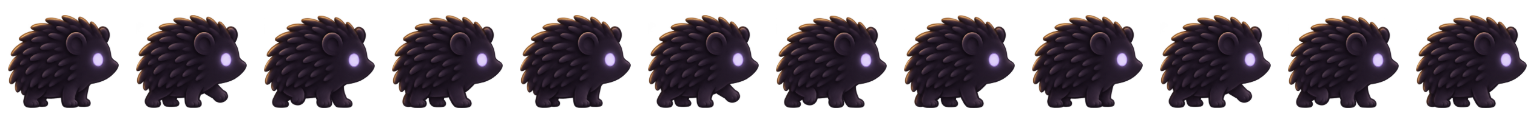
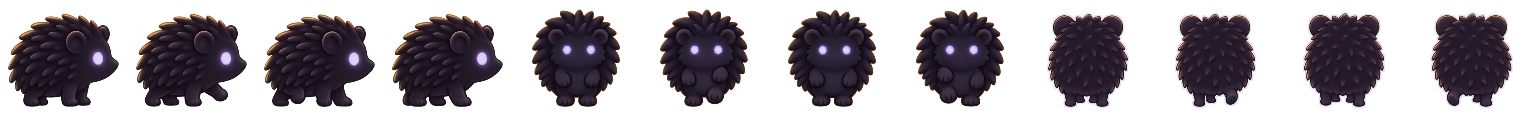
주민 앞·뒤 연결: 고슴도치·레서판다 앞·뒤 32장(기획 세션 13:14 통과) → 시트 칸 4~11, 개구리 앞·뒤는 f01 수정본까지 옆으로 대신
- art-src/enemies/<id>-dark|true.walk_000_front_f01~04 · walk_180_back_f01~04, 판에서 위에서 내려오면 앞모습·아래에서 올라가면 뒷모습 확인, 콘솔 오류 0
- npm run assets가 손대지 않은 그림 70여 개도 픽셀이 조금 다르게 구움(크롬 업데이트로 줄이기 방식 변화로 보임, 화질 같거나 조금 또렷) → 그 파일들은 되돌리고 이번 시트 넷과 manifest만
- 점검 기록 reference/Lost_Pack/README_claude.md, CLAUDE.md·NIGHT_RUN 14-4·스킬 visual-audio·DECISION_LOG

Claude-Session: https://claude.ai/code/session_01HrPbr5mJU6i3pPUacduwos

diff --git a/CLAUDE.md b/CLAUDE.md
@@ -91,7 +91,7 @@
 - **테스트**(홈): 고르기 창 = 트라이얼(루미·토리·도토 칸, 잠긴 친구도 — 그 판에서만) + 튜토리얼 + '밤 n 체험'(1·3·6·9, 맵 고르기). 테스트 판은 진행·지난 밤들에 남지 않는다.
 - **HUD**: 위 = 달·"밤 {n} · mm:ss"·진행 바·점수(런 누적)·콤보·★레벨·✦별가루. 아래 = 하트·HP·LP('HP'·'LP' 글자)·광원 HP·켠 등불 수·일시정지. 17:9보다 좁은 가로는 판을 바닥 가운데·스틱을 위로, 폰 가로는 스틱을 안쪽으로. 화면 밖 적 = 라벤더 화살표, 꺼진 등불·위험·빛을 잃은 친구 = 노란 화살표.
 - **아트**: "어두운 밤, 따뜻한 빛" — 남색 + 호박빛, 작은 동물들의 밤 마을(어두운 겹·켜진 겹을 빛 마스크로). 공간감 기준 「달빛 숲의 등불지기 고양이」(`reference/ChatGPT-Images/`). 분위기 참고 Stray·OneShot, Cult of the Lamb 2.5D, Undertale 자비, 브롤스타즈 조작·맵.
-- **그림 규칙**: 실제 그림 = ChatGPT, 그때까지 Claude 임시 코드 그림(`src/art/*` → `npm run assets`), ChatGPT 그림이 오면 같은 키로 교체. **받은 것(2026-11-24 ChatGPT, 각 팩 `README_claude.md`)**: 행렬 패시브 셋 — 올빼미(걷기 옆·앞·뒤 각 4, 6칸/초) · 나방·반딧불이(나는 종: 날갯짓 옆 4, 8칸/초, 몸 가운데 앵커), 웅크림 = 정면 한 장 전 방향 공용·뒤집지 않음, 도망 = 옆 2장 가로 부호로 뒤집기(올빼미·반딧불이 8 · 나방 6칸/초) — `art-src/enemies/<id>.*`·`<id>-cower`·`<id>-flee` · 노월 두 모습(`witch`·`witch-angry` 0~3 대기·4~5 시전·6 진정 공용, 진정 순간 부활 빛기둥 한 번) · UI 아이콘 v3(`public/ui-icons/`, `src/ui/v3Icons.ts` — HUD ✦·★ 선, 아침 요약·상점은 산 것만 채움 `-on`, 두 길 점은 선만) · 2-B 아침 배경(세로·가로, cover — '집으로' 결과도 같은 하늘)·새 지역 카드 B·C·이야기 카드 2·4(`art-src/backgrounds/`) · 2-C 호스틸 셋 — 박쥐(두 모습 — 돌아갈 때 `bat-true`로 제자리 교체, 몸을 돌리지 않고 가로로만 뒤집음)·웨어울프(앞·뒤 ±2px 출렁임)·뱀파이어(칸 96, 받은 그림의 몸 자리를 Claude가 눈 기준으로 옮긴 사본) · 중앙 광원(밝음·낮음·꺼짐 = 칸 0·1·2) · 등불 스테이션(켜짐·약함·꺼짐, 바닥 = 기준점) · 스폰 아이템 아이콘 5종(바닥·HUD·선택 화면 같은 그림) · 잃어버린 주민 셋 옆모습 두 모습(개구리·고슴도치·레서판다 — 앞·뒤는 옆 4장으로 대신, 2차가 통과하면 교체) — 2-C 팩은 `ArtSpec.register: 'canvas'`(캔버스 앵커 그대로). 홍보 키 비주얼 `reference/Key_Visual_v3/`는 게임에 넣지 않음. 아직 임시(코드 그림 = 폴백, 오는 대로 교체): 주민 셋 앞·뒤(자리 대조표 `NIGHT_RUN.md` 14-4)·격자 소품·바닥·이야기 카드 1·3·5·6. 연결 지시는 `docs/plan/order-art-connect-26-1124.md`에 쌓임. **쓰러짐 = 잠듦**(2026-11-24): X 눈 칸 쓰지 않음, 잠든 모습 = ChatGPT `reference/Sleep_Pack/`(11-24 도착, `src/art/sleepSheet.ts`가 8방향 시트와 같은 축척으로 — 루미·도토는 쓰러진 방향대로 뒤집기, 토리는 안 뒤집음, 그림이 없으면 대기 그림을 눕혀 흐리게), **'z' 같은 글자는 띄우지 않는다**(라이언). 그림 마감 없음(8절 마감 지침). v3 브리프 이름 ↔ 게임 자리 = `NIGHT_RUN.md` 13절 끝.
+- **그림 규칙**: 실제 그림 = ChatGPT, 그때까지 Claude 임시 코드 그림(`src/art/*` → `npm run assets`), ChatGPT 그림이 오면 같은 키로 교체. **받은 것(2026-11-24 ChatGPT, 각 팩 `README_claude.md`)**: 행렬 패시브 셋 — 올빼미(걷기 옆·앞·뒤 각 4, 6칸/초) · 나방·반딧불이(나는 종: 날갯짓 옆 4, 8칸/초, 몸 가운데 앵커), 웅크림 = 정면 한 장 전 방향 공용·뒤집지 않음, 도망 = 옆 2장 가로 부호로 뒤집기(올빼미·반딧불이 8 · 나방 6칸/초) — `art-src/enemies/<id>.*`·`<id>-cower`·`<id>-flee` · 노월 두 모습(`witch`·`witch-angry` 0~3 대기·4~5 시전·6 진정 공용, 진정 순간 부활 빛기둥 한 번) · UI 아이콘 v3(`public/ui-icons/`, `src/ui/v3Icons.ts` — HUD ✦·★ 선, 아침 요약·상점은 산 것만 채움 `-on`, 두 길 점은 선만) · 2-B 아침 배경(세로·가로, cover — '집으로' 결과도 같은 하늘)·새 지역 카드 B·C·이야기 카드 2·4(`art-src/backgrounds/`) · 2-C 호스틸 셋 — 박쥐(두 모습 — 돌아갈 때 `bat-true`로 제자리 교체, 몸을 돌리지 않고 가로로만 뒤집음)·웨어울프(앞·뒤 ±2px 출렁임)·뱀파이어(칸 96, 받은 그림의 몸 자리를 Claude가 눈 기준으로 옮긴 사본) · 중앙 광원(밝음·낮음·꺼짐 = 칸 0·1·2) · 등불 스테이션(켜짐·약함·꺼짐, 바닥 = 기준점) · 스폰 아이템 아이콘 5종(바닥·HUD·선택 화면 같은 그림) · 잃어버린 주민 셋 두 모습(옆 셋 · 앞·뒤는 고슴도치·레서판다 — 개구리 앞·뒤는 f01 수정본까지 옆으로 대신) — 2-C 팩은 `ArtSpec.register: 'canvas'`(캔버스 앵커 그대로). 홍보 키 비주얼 `reference/Key_Visual_v3/`는 게임에 넣지 않음. 아직 임시(코드 그림 = 폴백, 오는 대로 교체): 개구리 앞·뒤(f01 수정본 대기)·격자 소품·바닥(연결 중)·강·다리(수정본 대기)·이야기 카드 1·3·5·6. 연결 지시는 `docs/plan/order-art-connect-26-1124.md`에 쌓임. **쓰러짐 = 잠듦**(2026-11-24): X 눈 칸 쓰지 않음, 잠든 모습 = ChatGPT `reference/Sleep_Pack/`(11-24 도착, `src/art/sleepSheet.ts`가 8방향 시트와 같은 축척으로 — 루미·도토는 쓰러진 방향대로 뒤집기, 토리는 안 뒤집음, 그림이 없으면 대기 그림을 눕혀 흐리게), **'z' 같은 글자는 띄우지 않는다**(라이언). 그림 마감 없음(8절 마감 지침). v3 브리프 이름 ↔ 게임 자리 = `NIGHT_RUN.md` 13절 끝.
 - **둥근 버튼·배지 규칙**: 남색 유리 원(#34396C → #14152E) + 얇은 밝은 테두리 + 굵고 끝이 둥근 선 아이콘(연한 종이색), 켜짐 = 호박 사탕 채움 + 남색 아이콘, 놓으면 부드럽게 제자리(cubic-bezier(0.16, 1, 0.3, 1)). 기준 `.pull-refresh`·`refreshIcon`·`.icon-button`. 알약 버튼(주요 = 호박, 보조 = 어두운 유리), 최소 48px.
 - **팔레트**: NIGHT `#1B1F3B` · DUSK `#2A2F5A` · PREDAWN `#120F24` · DAWN `#F2B880` · AMBER `#FFC857` · MINT `#9ED9B5` · LAVENDER `#A89CD9` · EMBER `#FF8C5A` · PAPER `#F6F1E7` · ASH `#8A8FA8`. 폰트 Pretendard → Noto Sans KR.
 - **늘 어두운 화면**: `color-scheme: only dark`(+ index.html meta) — 브라우저·기기 야간 모드가 색을 바꾸지 않게(2026-11-20). **설정 창**: 낮은 가로(휴대폰)는 위 한 줄에 제목·닫기, 아래는 PC처럼 두 칸(넘치면 위아래로, 글자 px 최소값 16 — 폭 640 아래는 한 칸). 모든 화면에서 배경음악·효과음 슬라이더 왼쪽 끝을 맞추고(글자 칸 5em), 닉네임 칸·버튼은 칸 폭을 넘지 않는다(2026-11-21).

diff --git a/docs/skill/light-defense-game/references/visual-audio.md b/docs/skill/light-defense-game/references/visual-audio.md
@@ -93,7 +93,7 @@
   - 노월은 대기·시전·진정 모습이 있다.
 - 퇴장: 잃어버린 주민은 제 모습으로 중앙 광원 쪽으로 뛰어가며 사라진다. 호스틸은 빛 반대쪽으로 날아가 사라진다.
 - 패시브는 위협적이지 않게, 빛을 피하는 몸짓을 한다.
-- 아직 Claude의 임시 코드 그림(2026-11-24 주민 옆모습 연결 뒤): 주민 셋 앞·뒤(지금은 옆 4장으로 대신)·격자 맵 소품·바닥, 이야기 카드 1·3·5·6(초상·도형 구성).
+- 아직 Claude의 임시 코드 그림(2026-11-24 주민 앞·뒤 연결 뒤): 개구리 앞·뒤(옆 4장으로 대신 — f01 수정본 대기)·격자 맵 소품·바닥(연결 중)·강·다리, 이야기 카드 1·3·5·6(초상·도형 구성). 고슴도치·레서판다는 옆·앞·뒤 모두 ChatGPT 그림.
 - 잃어버린 주민 셋(개구리·고슴도치·레서판다) 옆모습 두 모습은 2026-11-24 ChatGPT 그림(`reference/Lost_Pack/`) — 캔버스 앵커 그대로(개구리 공중 칸이 땅에 붙지 않게), 제 모습은 빛을 잃은 모습 축척(구출 순간 제자리 교체). 코드 그림은 폴백으로 남긴다(그림 일괄 지시서 — 그림 마감 없음, 오는 대로 교체).
 - ChatGPT 그림 적용(2026-11-24 그림 연결, 각 팩 `README_claude.md`): 웨어울프(옆·앞·뒤 걷기 각 4, 8칸/초, 앞·뒤 걷는 동안 ±2px 출렁임) · 박쥐 두 모습(날갯짓 옆 4, 몸 가운데 앵커, 빛을 받아 돌아갈 때 되돌아온 모습으로 제자리 교체) · 중앙 광원(밝음·낮음·꺼짐 3칸, 광도 4단계는 둘레 빛 크기) · 뱀파이어(날갯짓 옆 4, 칸 96, 받은 그림의 몸 자리를 눈 기준으로 옮긴 사본) · 등불 스테이션(켜짐·약함·꺼짐, 바닥 = 기준점) · 스폰 아이템 아이콘 5종(남색 굵은 선 + 제 색, 바닥·HUD·선택 화면 같은 그림). 2-C 팩은 `ArtSpec.register: 'canvas'`로 캔버스 앵커를 그대로 지킨다.
 - ChatGPT 그림 적용(2026-11-24, 각 팩 `README_claude.md`): 나방·반딧불이(나는 종 — 날갯짓 옆 4장 8칸/초·몸 가운데 앵커·가로 부호로 뒤집기, 웅크림 정면 공용, 도망 2장 나방 6·반딧불이 8칸/초, 칸 64·48px) · 노월(시트 `witch`·`witch-angry` 0~3 대기·4~5 시전·6 진정 공용, 진정 순간은 말풍선 + 부활 빛기둥 한 번) · UI 아이콘 v3(`public/ui-icons/`, HUD ✦·★ 선, 아침 요약·상점은 산 것만 채움, 두 길 점 선만) · 올빼미(행렬 패시브) · 2-B 아침 배경(`morning`·`morning-wide`, cover) · 새 지역 카드(`region-border`·`region-dark`) · 이야기 카드 2·4(`story-02-source`·`story-04-voices`, 16:9 — 글 자리 그대로). 홍보 키 비주얼 `reference/Key_Visual_v3/`는 게임에 넣지 않음 — 걷기 옆·앞·뒤 각 4장(옆은 오른쪽, 왼쪽은 뒤집기) · 웅크림 정면 1장(전 방향 공용, 뒤집지 않음, 겁먹은 눈) · 도망 옆 2장(가로 부호로 뒤집기, 8칸/초). 칸 72px·몸 약 58px.

diff --git a/docs/DECISION_LOG.md b/docs/DECISION_LOG.md
@@ -209,3 +209,4 @@
 - 2026-11-24 · 13:19 마감 지침(라이언·기획 세션): 마감은 날짜가 아니라 지침 — "최대한 빨리 완성하되, 오류 없이 진행하는 것이 먼저". 날짜 마감 문장(11-26 12:00·11-26 23:00·11-27 23:00)은 이 지침으로 바꿈. 빨리 = 잘게 끊어 테스트·check를 통과한 단위로 자주 반영·보고, 통과 못 한 것은 올리지 않음.
 - 2026-11-24 · 완료 기준 F5(노월 진정 = 아침) 점검 판을 ★9로 시작(`&level=n` 개발 주소) — 다듬기 2차로 레벨이 느려져 밤 10을 ★1로 바로 시작하는 점검 판이 100초에 걸렸음(게임 규칙 문제 아님, 실제 런은 밤 10에 ★10).
 - 2026-11-24 · 13:26 기획 세션(라이언 지시, 긴급) — 이야기 카드 2↔4 순서 교정(두 목소리는 광원이 꺼지기 전): 1 마을 · 2 두 목소리 · 3 광원이 꺼진 밤 · 4 친구를 잃음 · 5·6 그대로. 그림·문구 그대로(카드 4 앞 "답을 듣지 못한 채,"는 붙이지 않음 — 카드 4가 "빛의 마을이 넓어지자"로 시작해 어색), 그림 파일 이름은 자리 번호일 뿐.
+- 2026-11-24 · 주민 앞·뒤 연결(기획 세션 13:14 통과): 고슴도치·레서판다 앞·뒤 32장 → 칸 4~11, 개구리 앞·뒤는 f01 수정본까지 옆으로 대신. `npm run assets`가 이번에 손대지 않은 그림 70여 개도 픽셀이 조금 다르게 다시 구워(크롬 업데이트로 줄이기 방식이 바뀐 듯 — 화질은 같거나 조금 또렷) 그 파일들은 되돌리고 이번 시트만 올림.

diff --git a/reference/Lost_Pack/README_claude.md b/reference/Lost_Pack/README_claude.md
@@ -16,6 +16,6 @@ ChatGPT 2-C 1-2절 → 기획 세션 통과(`docs/plan/order-art-connect-26-1124
 | `hedgehog_lost_walk_090_right_…` / `hedgehog_walk_090_right_…` | `hedgehog-dark.…` / `hedgehog-true.…` | 0~3(옆) | 64 · 발끝 |
 | `redpanda_lost_walk_090_right_…` / `redpanda_walk_090_right_…` | `redpanda-dark.…` / `redpanda-true.…` | 0~3(옆) | 72 · 발끝 |
 
-- **앞·뒤 칸(4~11)은 옆 4장으로 대신**(`ArtSpec.poseFallback`, 뒤집기 없음) — 앞·뒤 2차(통합 지시서 9번)가 기획 검토를 통과하면 같은 자리 이름(`walk_000_front_f0N`·`walk_180_back_f0N`)으로 넣는다.
+- **앞·뒤**(2026-11-24 기획 세션 13:14 통과): 고슴도치·레서판다 앞·뒤 32장 → `art-src/enemies/<id>-dark|true.walk_000_front_f01~04`·`walk_180_back_f01~04` → 칸 4~7·8~11(발끝 494~495, 가운데 254~258). **개구리 앞·뒤는 옆 4장으로 대신**(`poseFallback`) — f01 네 장(떨어진 조각, 발 427·441)의 ChatGPT 수정본이 오면 f01~f04를 함께 넣는다(한 방향의 네 장이 다 있어야 그 방향 그림을 씀). 캡처 `sketches/lost-precheck-26-1124-1048/frontback-front.png`·`frontback-back.png`.
 - **캔버스 앵커 그대로**(`register: 'canvas'`): 개구리는 이것이 없으면 공중 칸(f03)이 땅에 붙어 폴짝이 사라진다. 제 모습은 빛을 잃은 모습 축척을 빌림(구출 순간 제자리 교체).
 - 받은 팩 파일은 손대지 않음. 코드 그림(`src/art/enemies.ts`·`creatures.ts`)은 폴백.

diff --git a/reference/Lost_Pack/redpanda/README.md b/reference/Lost_Pack/redpanda/README.md
@@ -8,3 +8,6 @@ Twenty-four transparent 512×512 sprites: 12 true-form and 12 lost-form, coverin
 - Lost form: matching dark plum (#1F1B2E) with lavender #D6CCFF eyes edged #A89CD9 in front and side views, no sclera, mouth, nose, or blush. Rear faces away and has no eyes.
 - Lost rear-view frames are color-mapped from their matching true-form frames to preserve the exact single-tail silhouette and position.
 - No text, clothes, props, or ground shadow.
+
+### 2026-11-24 correction
+- Added a restrained #A89CD9 outer rim to all four lost-form rear frames; silhouettes and poses were preserved.

diff --git a/reference/Lost_Pack/frog/README.md b/reference/Lost_Pack/frog/README.md
@@ -18,3 +18,7 @@ Files:
 - frog_lost_walk_000_front_f01.png through frog_lost_walk_000_front_f04.png
 - frog_walk_180_back_f01.png through frog_walk_180_back_f04.png
 - frog_lost_walk_180_back_f01.png through frog_lost_walk_180_back_f04.png
+
+### 2026-11-24 correction
+- Cleaned the four front/rear f01 sprites: removed two detached sheet fragments per image, matched the f04 standing scale, centered x=256, and aligned the feet to y=496. The character design was preserved.
+- Added a restrained #A89CD9 outer rim to all four lost-form rear frames.

diff --git a/reference/Lost_Pack/hedgehog/README.md b/reference/Lost_Pack/hedgehog/README.md
@@ -7,3 +7,6 @@ Twenty-four transparent 512×512 sprites: 12 true-form and 12 lost-form, coverin
 - True form: warm brown baby hedgehog with cream face and rounded cream-tipped spines.
 - Lost form: matching dark plum (#1F1B2E) with lavender eyes #D6CCFF edged #A89CD9 in front and side views; no sclera, mouth, nose, or blush. Rear faces away and shows no eyes.
 - No text, clothes, props, or ground shadow.
+
+### 2026-11-24 correction
+- Added a restrained #A89CD9 outer rim to all four lost-form rear frames; silhouettes and poses were preserved.
